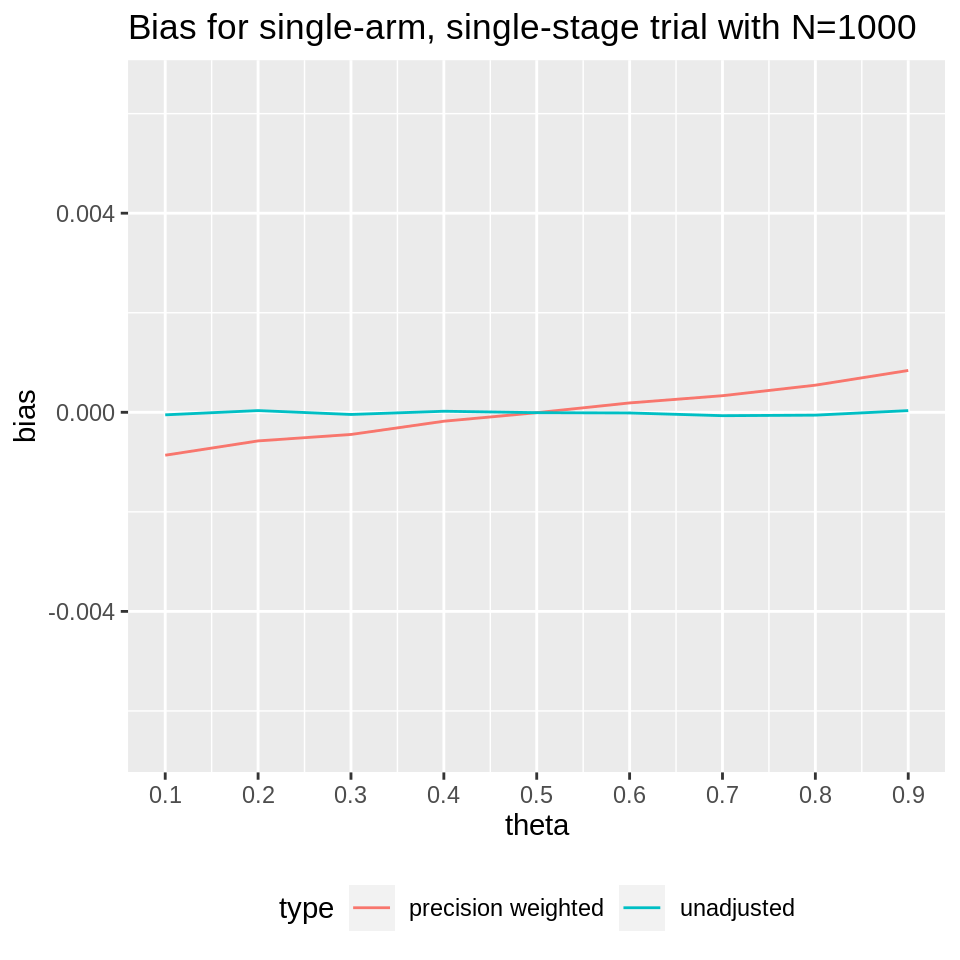
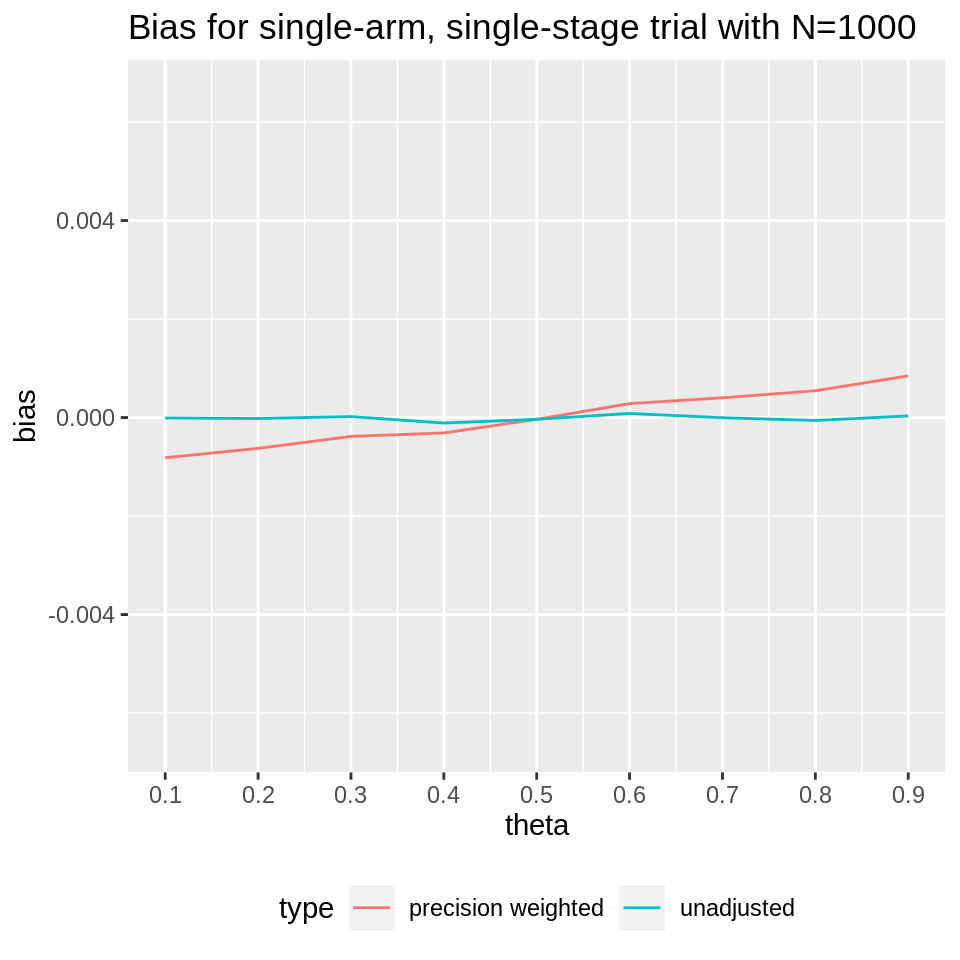
Built site for pwb: 0.0.0.9000@9cac31b

diff --git a/articles/MA_add_trial.html b/articles/MA_add_trial.html
@@ -83,7 +83,10 @@
 <div class="sourceCode" id="cb1"><pre class="downlit sourceCode r">
 <code class="sourceCode R"><span class="kw"><a href="https://rdrr.io/r/base/library.html" class="external-link">library</a></span><span class="op">(</span><span class="va"><a href="https://martinlaw.github.io/pwb/">pwb</a></span><span class="op">)</span>
 <span class="kw"><a href="https://rdrr.io/r/base/library.html" class="external-link">library</a></span><span class="op">(</span><span class="va"><a href="https://ggplot2.tidyverse.org" class="external-link">ggplot2</a></span><span class="op">)</span></code></pre></div>
-<p>We identify a trial design with substantial unadjusted bias and no precision weighted bias. We obtain bias for a meta-analysis before and after including this design. We expect no increase in (absolute) bias.</p>
+<div class="section level3">
+<h3 id="trial-design-with-no-precision-weighted-bias">Trial design with no precision weighted bias<a class="anchor" aria-label="anchor" href="#trial-design-with-no-precision-weighted-bias"></a>
+</h3>
+<p>We identify a trial design with substantial unadjusted bias and no precision weighted bias. We obtain bias for a meta-analysis before and after including this design in the meta-analysis. We expect no increase in (absolute) bias.</p>
 <p>Find a Simon design with p<sub>0</sub>=0.5, p<sub>1</sub>=0.6, type-I error-rate 0.05, power 0.9:</p>
 <div class="sourceCode" id="cb2"><pre class="downlit sourceCode r">
 <code class="sourceCode R"><span class="va">all.designs</span> <span class="op">&lt;-</span> <span class="fu">clinfun</span><span class="fu">::</span><span class="fu"><a href="https://rdrr.io/pkg/clinfun/man/ph2simon.html" class="external-link">ph2simon</a></span><span class="op">(</span>pu<span class="op">=</span><span class="fl">0.5</span>,
@@ -94,51 +97,96 @@
 <span class="co"># Choose optimal Simon design:</span>
 <span class="va">opt.index</span> <span class="op">&lt;-</span> <span class="fu"><a href="https://rdrr.io/r/base/which.min.html" class="external-link">which.min</a></span><span class="op">(</span><span class="va">all.designs</span><span class="op">$</span><span class="va">out</span><span class="op">[</span>, <span class="st">"EN(p0)"</span><span class="op">]</span><span class="op">)</span>
 <span class="va">simon.des</span> <span class="op">&lt;-</span> <span class="va">all.designs</span><span class="op">$</span><span class="va">out</span><span class="op">[</span><span class="va">opt.index</span>, <span class="op">]</span></code></pre></div>
-<p>Find bias for a true response probability theta=0.5:</p>
+<p>This design has some unadjusted bias and no precision weighted bias when true response probability theta=0.5:</p>
 <div class="sourceCode" id="cb3"><pre class="downlit sourceCode r">
-<code class="sourceCode R"><span class="co"># Find bias for this design, for a single true response probability theta:</span>
-  <span class="va">nsims</span> <span class="op">&lt;-</span> <span class="fl">1e4</span>
+<code class="sourceCode R">  <span class="va">nsims</span> <span class="op">&lt;-</span> <span class="fl">1e5</span>
   <span class="va">theta</span> <span class="op">&lt;-</span> <span class="fl">0.5</span>
   <span class="fu"><a href="https://rdrr.io/r/base/Random.html" class="external-link">set.seed</a></span><span class="op">(</span><span class="fl">16</span><span class="op">)</span>
   <span class="va">single.simon</span> <span class="op">&lt;-</span> <span class="fu"><a href="../reference/pwbSimon.html">pwbSimon</a></span><span class="op">(</span>theta<span class="op">=</span><span class="va">theta</span>,
                                 des<span class="op">=</span><span class="va">simon.des</span>,
                                 nsims<span class="op">=</span><span class="va">nsims</span><span class="op">)</span>
-  <span class="fu"><a href="https://rdrr.io/r/base/Round.html" class="external-link">round</a></span><span class="op">(</span><span class="va">single.simon</span><span class="op">$</span><span class="va">ests</span><span class="op">[</span>, <span class="fl">1</span><span class="op">:</span><span class="fl">5</span><span class="op">]</span>, <span class="fl">5</span><span class="op">)</span>
-<span class="co">#&gt;                          nsims     bias mean.SE  emp.SE theta</span>
-<span class="co">#&gt; Stopped early             6778 -0.02650 0.04884 0.03465   0.5</span>
-<span class="co">#&gt; Complete                  3222  0.02485 0.03267 0.02653   0.5</span>
-<span class="co">#&gt; All                      10000 -0.00996 0.04363 0.04020   0.5</span>
-<span class="co">#&gt; All (precision-weighted) 10000 -0.00017 0.04051      NA   0.5</span>
-  <span class="fu"><a href="https://rdrr.io/r/base/Round.html" class="external-link">round</a></span><span class="op">(</span><span class="va">single.simon</span><span class="op">$</span><span class="va">mc.error</span>, <span class="fl">5</span><span class="op">)</span>
-<span class="co">#&gt; [1] 0.00040 0.00028</span></code></pre></div>
+  <span class="fu"><a href="https://rdrr.io/r/base/Round.html" class="external-link">round</a></span><span class="op">(</span><span class="va">single.simon</span><span class="op">$</span><span class="va">ests</span><span class="op">[</span><span class="fl">3</span><span class="op">:</span><span class="fl">4</span>, <span class="fl">2</span><span class="op">:</span><span class="fl">4</span><span class="op">]</span>, <span class="fl">5</span><span class="op">)</span>
+<span class="co">#&gt;                             bias mean.SE  emp.SE</span>
+<span class="co">#&gt; All                      -0.0095 0.04376 0.03946</span>
+<span class="co">#&gt; All (precision-weighted)  0.0000 0.04066      NA</span></code></pre></div>
+<p>There is unadjusted bias and no precision weighted bias.</p>
+<p>Now simulate all other meta-analysis studies and find summary estimate for each replication. These studies all have sample size equal to the maximum sample size of the Simon design.</p>
 <div class="sourceCode" id="cb4"><pre class="downlit sourceCode r">
-<code class="sourceCode R"><span class="co"># Simulate all other MA studies:</span>
-<span class="va">ma.results</span> <span class="op">&lt;-</span> <span class="fu"><a href="../reference/simMeta.html">simMeta</a></span><span class="op">(</span>N<span class="op">=</span><span class="va">simon.des</span><span class="op">[</span><span class="st">"n"</span><span class="op">]</span>, theta<span class="op">=</span><span class="fl">0.5</span>, n.studies<span class="op">=</span><span class="fl">4</span>, nsims<span class="op">=</span><span class="va">nsims</span><span class="op">)</span>
-
-<span class="co"># Summary estimate and bias (excluding Simon design):</span>
-  <span class="va">wtdmeans.ex</span> <span class="op">&lt;-</span> <span class="fu"><a href="https://rdrr.io/r/base/rep.html" class="external-link">rep</a></span><span class="op">(</span><span class="cn">NA</span>, <span class="va">nsims</span><span class="op">)</span>
-  <span class="kw">for</span><span class="op">(</span><span class="va">i</span> <span class="kw">in</span> <span class="fl">1</span><span class="op">:</span><span class="va">nsims</span><span class="op">)</span><span class="op">{</span>
-    <span class="va">wtdmeans.ex</span><span class="op">[</span><span class="va">i</span><span class="op">]</span> <span class="op">&lt;-</span> <span class="fu"><a href="https://rdrr.io/r/stats/weighted.mean.html" class="external-link">weighted.mean</a></span><span class="op">(</span>x<span class="op">=</span><span class="va">ma.results</span><span class="op">$</span><span class="va">theta.hat</span><span class="op">[</span><span class="va">i</span>, <span class="op">]</span>, w<span class="op">=</span><span class="fl">1</span><span class="op">/</span><span class="va">ma.results</span><span class="op">$</span><span class="va">se</span><span class="op">[</span><span class="va">i</span>, <span class="op">]</span><span class="op">^</span><span class="fl">2</span><span class="op">)</span>
-  <span class="op">}</span>
-  <span class="va">bias.ex</span> <span class="op">&lt;-</span> <span class="fu"><a href="https://rdrr.io/r/base/mean.html" class="external-link">mean</a></span><span class="op">(</span><span class="va">wtdmeans.ex</span><span class="op">-</span><span class="va">theta</span><span class="op">)</span></code></pre></div>
-<p>Now add replications of the above Simon design to the meta-analysis:</p>
+<code class="sourceCode R"><span class="va">ma.results</span> <span class="op">&lt;-</span> <span class="fu"><a href="../reference/simMeta.html">simMeta</a></span><span class="op">(</span>N<span class="op">=</span><span class="va">simon.des</span><span class="op">[</span><span class="st">"n"</span><span class="op">]</span>, theta<span class="op">=</span><span class="fl">0.5</span>, n.studies<span class="op">=</span><span class="fl">4</span>, nsims<span class="op">=</span><span class="va">nsims</span><span class="op">)</span>
+<span class="va">wtdmeans.ex</span> <span class="op">&lt;-</span> <span class="fu"><a href="https://rdrr.io/r/base/rep.html" class="external-link">rep</a></span><span class="op">(</span><span class="cn">NA</span>, <span class="va">nsims</span><span class="op">)</span>
+<span class="kw">for</span><span class="op">(</span><span class="va">i</span> <span class="kw">in</span> <span class="fl">1</span><span class="op">:</span><span class="va">nsims</span><span class="op">)</span> <span class="va">wtdmeans.ex</span><span class="op">[</span><span class="va">i</span><span class="op">]</span> <span class="op">&lt;-</span> <span class="fu"><a href="https://rdrr.io/r/stats/weighted.mean.html" class="external-link">weighted.mean</a></span><span class="op">(</span>x<span class="op">=</span><span class="va">ma.results</span><span class="op">$</span><span class="va">theta.hat</span><span class="op">[</span><span class="va">i</span>, <span class="op">]</span>, w<span class="op">=</span><span class="fl">1</span><span class="op">/</span><span class="va">ma.results</span><span class="op">$</span><span class="va">se</span><span class="op">[</span><span class="va">i</span>, <span class="op">]</span><span class="op">^</span><span class="fl">2</span><span class="op">)</span></code></pre></div>
+<p>Now add the replications of the Simon design to the meta-analysis and find summary estimates again:</p>
 <div class="sourceCode" id="cb5"><pre class="downlit sourceCode r">
 <code class="sourceCode R"><span class="va">combined.results</span> <span class="op">&lt;-</span> <span class="va">ma.results</span>
 <span class="va">combined.results</span><span class="op">$</span><span class="va">theta.hat</span> <span class="op">&lt;-</span> <span class="fu"><a href="https://rdrr.io/r/base/cbind.html" class="external-link">cbind</a></span><span class="op">(</span><span class="va">single.simon</span><span class="op">$</span><span class="va">results</span><span class="op">$</span><span class="va">theta.hat</span>, <span class="va">ma.results</span><span class="op">$</span><span class="va">theta.hat</span><span class="op">)</span>
 <span class="va">combined.results</span><span class="op">$</span><span class="va">se</span> <span class="op">&lt;-</span> <span class="fu"><a href="https://rdrr.io/r/base/cbind.html" class="external-link">cbind</a></span><span class="op">(</span><span class="va">single.simon</span><span class="op">$</span><span class="va">results</span><span class="op">$</span><span class="va">se</span>, <span class="va">ma.results</span><span class="op">$</span><span class="va">se</span><span class="op">)</span>
 
+<span class="va">wtdmeans.inc</span> <span class="op">&lt;-</span> <span class="fu"><a href="https://rdrr.io/r/base/rep.html" class="external-link">rep</a></span><span class="op">(</span><span class="cn">NA</span>, <span class="va">nsims</span><span class="op">)</span>
+<span class="kw">for</span><span class="op">(</span><span class="va">i</span> <span class="kw">in</span> <span class="fl">1</span><span class="op">:</span><span class="va">nsims</span><span class="op">)</span> <span class="va">wtdmeans.inc</span><span class="op">[</span><span class="va">i</span><span class="op">]</span> <span class="op">&lt;-</span> <span class="fu"><a href="https://rdrr.io/r/stats/weighted.mean.html" class="external-link">weighted.mean</a></span><span class="op">(</span>x<span class="op">=</span><span class="va">combined.results</span><span class="op">$</span><span class="va">theta.hat</span><span class="op">[</span><span class="va">i</span>, <span class="op">]</span>, w<span class="op">=</span><span class="fl">1</span><span class="op">/</span><span class="va">combined.results</span><span class="op">$</span><span class="va">se</span><span class="op">[</span><span class="va">i</span>, <span class="op">]</span><span class="op">^</span><span class="fl">2</span><span class="op">)</span></code></pre></div>
+<p>Now find the bias in the meta-analysis, excluding and including the Simon design:</p>
+<div class="sourceCode" id="cb6"><pre class="downlit sourceCode r">
+<code class="sourceCode R"><span class="va">bias.ex</span> <span class="op">&lt;-</span> <span class="fu"><a href="https://rdrr.io/r/base/mean.html" class="external-link">mean</a></span><span class="op">(</span><span class="va">wtdmeans.ex</span><span class="op">-</span><span class="va">theta</span><span class="op">)</span>
+<span class="va">bias.inc</span> <span class="op">&lt;-</span> <span class="fu"><a href="https://rdrr.io/r/base/mean.html" class="external-link">mean</a></span><span class="op">(</span><span class="va">wtdmeans.inc</span><span class="op">-</span><span class="va">theta</span><span class="op">)</span>
+<span class="va">bias.ex</span>
+<span class="co">#&gt; [1] 2.775542e-05</span>
+<span class="va">bias.inc</span>
+<span class="co">#&gt; [1] -0.0001688474</span>
+<span class="fu"><a href="https://rdrr.io/r/base/MathFun.html" class="external-link">abs</a></span><span class="op">(</span><span class="va">bias.inc</span><span class="op">)</span><span class="op">-</span><span class="fu"><a href="https://rdrr.io/r/base/MathFun.html" class="external-link">abs</a></span><span class="op">(</span><span class="va">bias.ex</span><span class="op">)</span>
+<span class="co">#&gt; [1] 0.0001410919</span></code></pre></div>
+<p>Bias increases by almost an order of magnitude but still remains very small.</p>
+</div>
+<div class="section level3">
+<h3 id="trial-design-with-some-precision-weighted-bias">Trial design with some precision weighted bias<a class="anchor" aria-label="anchor" href="#trial-design-with-some-precision-weighted-bias"></a>
+</h3>
+<p>We now do the converse: identify a trial with precision weighted bias but no unadjusted bias.</p>
+<p>We start by finding a Simon design with p<sub>0</sub>=0.8, p<sub>1</sub>=0.9, type-I error-rate 0.05, power 0.9:</p>
+<div class="sourceCode" id="cb7"><pre class="downlit sourceCode r">
+<code class="sourceCode R"><span class="va">all.designs2</span> <span class="op">&lt;-</span> <span class="fu">clinfun</span><span class="fu">::</span><span class="fu"><a href="https://rdrr.io/pkg/clinfun/man/ph2simon.html" class="external-link">ph2simon</a></span><span class="op">(</span>pu<span class="op">=</span><span class="fl">0.8</span>,
+                                 pa<span class="op">=</span><span class="fl">0.9</span>,
+                                 ep1<span class="op">=</span><span class="fl">0.05</span>,
+                                 ep2<span class="op">=</span><span class="fl">0.1</span>,
+                                 nmax<span class="op">=</span><span class="fl">150</span><span class="op">)</span>
+<span class="co"># Choose optimal Simon design:</span>
+<span class="va">opt.index</span> <span class="op">&lt;-</span> <span class="fu"><a href="https://rdrr.io/r/base/which.min.html" class="external-link">which.min</a></span><span class="op">(</span><span class="va">all.designs2</span><span class="op">$</span><span class="va">out</span><span class="op">[</span>, <span class="st">"EN(p0)"</span><span class="op">]</span><span class="op">)</span>
+<span class="va">simon.des2</span> <span class="op">&lt;-</span> <span class="va">all.designs2</span><span class="op">$</span><span class="va">out</span><span class="op">[</span><span class="va">opt.index</span>, <span class="op">]</span></code></pre></div>
+<p>Find bias for true response probability theta=0.65:</p>
+<div class="sourceCode" id="cb8"><pre class="downlit sourceCode r">
+<code class="sourceCode R"><span class="co"># Find bias for this design, for a single true response probability theta:</span>
+  <span class="va">theta</span> <span class="op">&lt;-</span> <span class="fl">0.65</span>
+  <span class="fu"><a href="https://rdrr.io/r/base/Random.html" class="external-link">set.seed</a></span><span class="op">(</span><span class="fl">16</span><span class="op">)</span>
+  <span class="va">single.simon2</span> <span class="op">&lt;-</span> <span class="fu"><a href="../reference/pwbSimon.html">pwbSimon</a></span><span class="op">(</span>theta<span class="op">=</span><span class="va">theta</span>,
+                                des<span class="op">=</span><span class="va">simon.des2</span>,
+                                nsims<span class="op">=</span><span class="va">nsims</span><span class="op">)</span>
+  <span class="fu"><a href="https://rdrr.io/r/base/Round.html" class="external-link">round</a></span><span class="op">(</span><span class="va">single.simon2</span><span class="op">$</span><span class="va">ests</span><span class="op">[</span><span class="fl">3</span><span class="op">:</span><span class="fl">4</span>, <span class="fl">2</span><span class="op">:</span><span class="fl">4</span><span class="op">]</span>, <span class="fl">5</span><span class="op">)</span>
+<span class="co">#&gt;                              bias mean.SE  emp.SE</span>
+<span class="co">#&gt; All                      -0.00040 0.07092 0.07088</span>
+<span class="co">#&gt; All (precision-weighted)  0.00721 0.07026      NA</span></code></pre></div>
+<p>There is some unadjusted bias but the precision weighted bias is more than one order of magnitude greater.</p>
+<p>Again, simulate all other meta-analysis studies and find summary estimate for each replication. These studies all have sample size equal to the maximum sample size of the Simon design directly above.</p>
+<div class="sourceCode" id="cb9"><pre class="downlit sourceCode r">
+<code class="sourceCode R"><span class="va">ma.results2</span> <span class="op">&lt;-</span> <span class="fu"><a href="../reference/simMeta.html">simMeta</a></span><span class="op">(</span>N<span class="op">=</span><span class="va">simon.des2</span><span class="op">[</span><span class="st">"n"</span><span class="op">]</span>, theta<span class="op">=</span><span class="fl">0.65</span>, n.studies<span class="op">=</span><span class="fl">4</span>, nsims<span class="op">=</span><span class="va">nsims</span><span class="op">)</span>
+<span class="va">wtdmeans.ex2</span> <span class="op">&lt;-</span> <span class="fu"><a href="https://rdrr.io/r/base/rep.html" class="external-link">rep</a></span><span class="op">(</span><span class="cn">NA</span>, <span class="va">nsims</span><span class="op">)</span>
+<span class="kw">for</span><span class="op">(</span><span class="va">i</span> <span class="kw">in</span> <span class="fl">1</span><span class="op">:</span><span class="va">nsims</span><span class="op">)</span>    <span class="va">wtdmeans.ex2</span><span class="op">[</span><span class="va">i</span><span class="op">]</span> <span class="op">&lt;-</span> <span class="fu"><a href="https://rdrr.io/r/stats/weighted.mean.html" class="external-link">weighted.mean</a></span><span class="op">(</span>x<span class="op">=</span><span class="va">ma.results2</span><span class="op">$</span><span class="va">theta.hat</span><span class="op">[</span><span class="va">i</span>, <span class="op">]</span>, w<span class="op">=</span><span class="fl">1</span><span class="op">/</span><span class="va">ma.results2</span><span class="op">$</span><span class="va">se</span><span class="op">[</span><span class="va">i</span>, <span class="op">]</span><span class="op">^</span><span class="fl">2</span><span class="op">)</span></code></pre></div>
+<p>Now add replications of this second Simon design to a meta-analysis:</p>
+<div class="sourceCode" id="cb10"><pre class="downlit sourceCode r">
+<code class="sourceCode R"><span class="va">combined.results2</span> <span class="op">&lt;-</span> <span class="va">ma.results2</span>
+<span class="va">combined.results2</span><span class="op">$</span><span class="va">theta.hat</span> <span class="op">&lt;-</span> <span class="fu"><a href="https://rdrr.io/r/base/cbind.html" class="external-link">cbind</a></span><span class="op">(</span><span class="va">single.simon2</span><span class="op">$</span><span class="va">results</span><span class="op">$</span><span class="va">theta.hat</span>, <span class="va">ma.results2</span><span class="op">$</span><span class="va">theta.hat</span><span class="op">)</span>
+<span class="va">combined.results2</span><span class="op">$</span><span class="va">se</span> <span class="op">&lt;-</span> <span class="fu"><a href="https://rdrr.io/r/base/cbind.html" class="external-link">cbind</a></span><span class="op">(</span><span class="va">single.simon2</span><span class="op">$</span><span class="va">results</span><span class="op">$</span><span class="va">se</span>, <span class="va">ma.results2</span><span class="op">$</span><span class="va">se</span><span class="op">)</span>
+
 <span class="co"># Summary estimate and bias (including Simon design):</span>
-  <span class="va">wtdmeans.inc</span> <span class="op">&lt;-</span> <span class="fu"><a href="https://rdrr.io/r/base/rep.html" class="external-link">rep</a></span><span class="op">(</span><span class="cn">NA</span>, <span class="va">nsims</span><span class="op">)</span>
-  <span class="kw">for</span><span class="op">(</span><span class="va">i</span> <span class="kw">in</span> <span class="fl">1</span><span class="op">:</span><span class="va">nsims</span><span class="op">)</span><span class="op">{</span>
-    <span class="va">wtdmeans.inc</span><span class="op">[</span><span class="va">i</span><span class="op">]</span> <span class="op">&lt;-</span> <span class="fu"><a href="https://rdrr.io/r/stats/weighted.mean.html" class="external-link">weighted.mean</a></span><span class="op">(</span>x<span class="op">=</span><span class="va">combined.results</span><span class="op">$</span><span class="va">theta.hat</span><span class="op">[</span><span class="va">i</span>, <span class="op">]</span>, w<span class="op">=</span><span class="fl">1</span><span class="op">/</span><span class="va">combined.results</span><span class="op">$</span><span class="va">se</span><span class="op">[</span><span class="va">i</span>, <span class="op">]</span><span class="op">^</span><span class="fl">2</span><span class="op">)</span>
-  <span class="op">}</span>
-  <span class="va">bias.inc</span> <span class="op">&lt;-</span> <span class="fu"><a href="https://rdrr.io/r/base/mean.html" class="external-link">mean</a></span><span class="op">(</span><span class="va">wtdmeans.inc</span><span class="op">-</span><span class="va">theta</span><span class="op">)</span>
-  <span class="va">bias.ex</span>
-<span class="co">#&gt; [1] -5.012593e-05</span>
-  <span class="va">bias.inc</span>
-<span class="co">#&gt; [1] -0.0002814131</span>
-  <span class="co">### ^^^ looks like bias increases by almost an order of magnitude but still remains very small.</span></code></pre></div>
-<p>We then do the converse: identify a trial with</p>
+<span class="va">wtdmeans.inc2</span> <span class="op">&lt;-</span> <span class="fu"><a href="https://rdrr.io/r/base/rep.html" class="external-link">rep</a></span><span class="op">(</span><span class="cn">NA</span>, <span class="va">nsims</span><span class="op">)</span>
+<span class="kw">for</span><span class="op">(</span><span class="va">i</span> <span class="kw">in</span> <span class="fl">1</span><span class="op">:</span><span class="va">nsims</span><span class="op">)</span> <span class="va">wtdmeans.inc2</span><span class="op">[</span><span class="va">i</span><span class="op">]</span> <span class="op">&lt;-</span> <span class="fu"><a href="https://rdrr.io/r/stats/weighted.mean.html" class="external-link">weighted.mean</a></span><span class="op">(</span>x<span class="op">=</span><span class="va">combined.results2</span><span class="op">$</span><span class="va">theta.hat</span><span class="op">[</span><span class="va">i</span>, <span class="op">]</span>, w<span class="op">=</span><span class="fl">1</span><span class="op">/</span><span class="va">combined.results2</span><span class="op">$</span><span class="va">se</span><span class="op">[</span><span class="va">i</span>, <span class="op">]</span><span class="op">^</span><span class="fl">2</span><span class="op">)</span>
+
+<span class="va">bias.ex2</span> <span class="op">&lt;-</span> <span class="fu"><a href="https://rdrr.io/r/base/mean.html" class="external-link">mean</a></span><span class="op">(</span><span class="va">wtdmeans.ex2</span><span class="op">-</span><span class="va">theta</span><span class="op">)</span>
+<span class="va">bias.inc2</span> <span class="op">&lt;-</span> <span class="fu"><a href="https://rdrr.io/r/base/mean.html" class="external-link">mean</a></span><span class="op">(</span><span class="va">wtdmeans.inc2</span><span class="op">-</span><span class="va">theta</span><span class="op">)</span>
+<span class="va">bias.ex2</span>
+<span class="co">#&gt; [1] 0.00181066</span>
+<span class="va">bias.inc2</span>
+<span class="co">#&gt; [1] 0.002239122</span>
+<span class="fu"><a href="https://rdrr.io/r/base/MathFun.html" class="external-link">abs</a></span><span class="op">(</span><span class="va">bias.inc2</span><span class="op">)</span><span class="op">-</span><span class="fu"><a href="https://rdrr.io/r/base/MathFun.html" class="external-link">abs</a></span><span class="op">(</span><span class="va">bias.ex2</span><span class="op">)</span>
+<span class="co">#&gt; [1] 0.0004284618</span></code></pre></div>
+<p>Bias increases only slightly, but we expect a larger increase.</p>
+</div>
   </main>
 </div>
 

diff --git a/articles/GS.html b/articles/GS.html
@@ -92,10 +92,10 @@
                      nsims<span class="op">=</span><span class="va">nsims</span><span class="op">)</span>
   <span class="va">single.GS</span><span class="op">$</span><span class="va">ests</span><span class="op">[</span>, <span class="fl">1</span><span class="op">:</span><span class="fl">5</span><span class="op">]</span>
 <span class="co">#&gt;                          nsims    bias mean.SE emp.SE theta</span>
-<span class="co">#&gt; Stopped early            38836 -0.0453  0.0455 0.0275   0.5</span>
-<span class="co">#&gt; Complete                 61164  0.0247  0.0421 0.0300   0.5</span>
-<span class="co">#&gt; All                     100000 -0.0025  0.0434 0.0448   0.5</span>
-<span class="co">#&gt; All (precision-weghted) 100000  0.0002  0.0433     NA   0.5</span>
+<span class="co">#&gt; Stopped early            39108 -0.0452  0.0455 0.0273   0.5</span>
+<span class="co">#&gt; Complete                 60892  0.0244  0.0421 0.0298   0.5</span>
+<span class="co">#&gt; All                     100000 -0.0028  0.0434 0.0446   0.5</span>
+<span class="co">#&gt; All (precision-weghted) 100000 -0.0001  0.0433     NA   0.5</span>
   <span class="fu"><a href="https://rdrr.io/r/base/Round.html" class="external-link">round</a></span><span class="op">(</span><span class="va">single.GS</span><span class="op">$</span><span class="va">mc.error</span>, <span class="fl">5</span><span class="op">)</span>
 <span class="co">#&gt; [1] 0.00014 0.00010</span></code></pre></div>
 <p>How does bias compare when the true response probability is varied? Find results for a vector of true response probabilities:</p>
